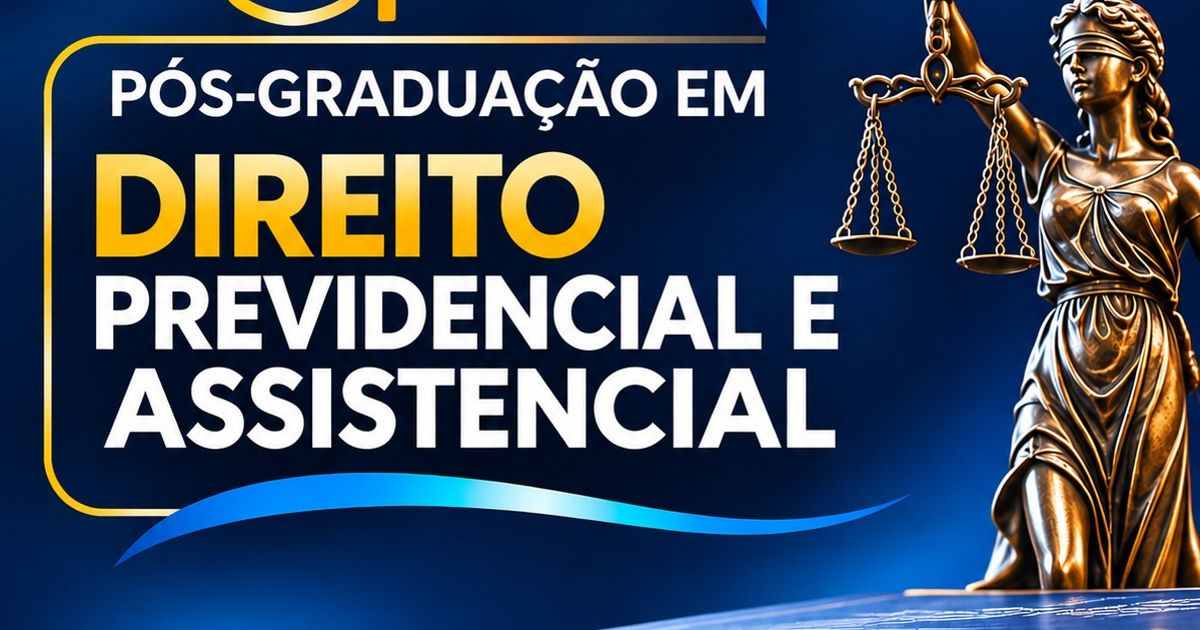
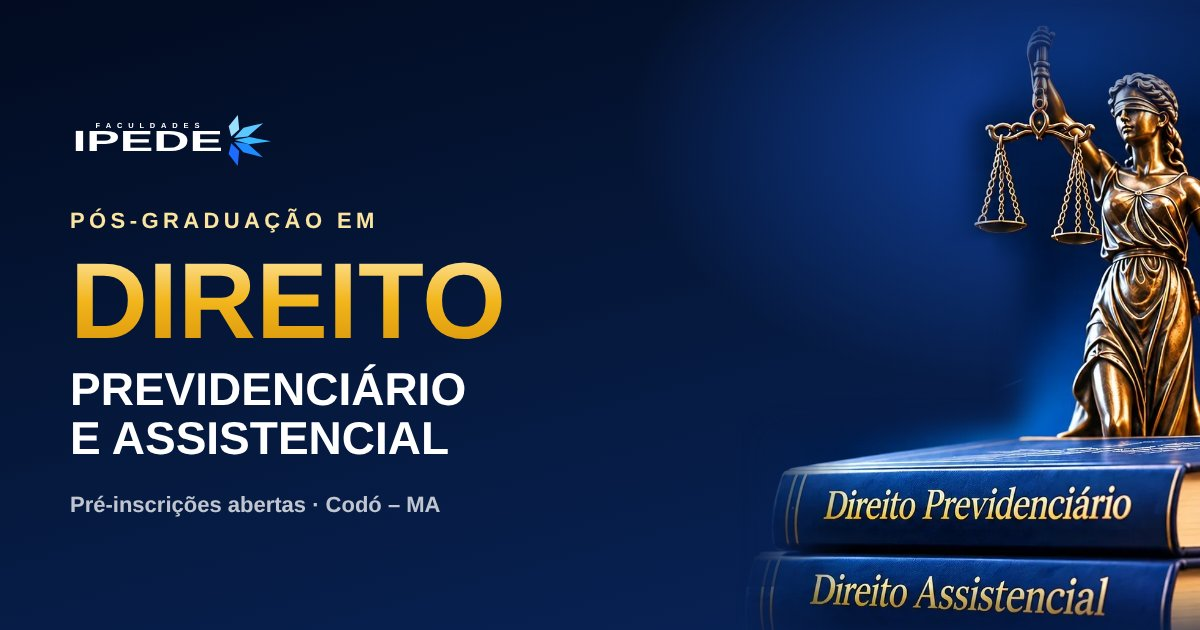
Pós: recortes limpos da arte, hero cinematográfico, faixa de destaques, seção Sobre reestruturada, nova imagem de compartilhamento
Claude-Session: https://claude.ai/code/session_01M2wvGq5piwREC14pVFZBn2

diff --git a/pos/index.html b/pos/index.html
@@ -68,7 +68,8 @@
   .topo .btn{padding:12px 20px;font-size:13px}
 
   /* ===== HERO ===== */
-  .hero{position:relative;overflow:hidden;color:#fff;min-height:100vh;min-height:100svh;display:flex;align-items:center;background:linear-gradient(170deg,var(--noite) 0%,var(--navy) 50%,#08245A 100%)}
+  section.hero{padding:0}
+  .hero{position:relative;overflow:hidden;color:#fff;min-height:clamp(720px,100svh,960px);display:flex;align-items:center;background:linear-gradient(170deg,var(--noite) 0%,var(--navy) 50%,#08245A 100%)}
   .aurora{position:absolute;border-radius:50%;filter:blur(110px);pointer-events:none;will-change:transform}
   .aurora.a1{width:720px;height:720px;right:-180px;top:-220px;background:radial-gradient(circle,rgba(30,107,255,.55),transparent 65%);animation:deriva1 26s ease-in-out infinite}
   .aurora.a2{width:560px;height:560px;left:-200px;bottom:-260px;background:radial-gradient(circle,rgba(56,182,255,.32),transparent 65%);animation:deriva2 32s ease-in-out infinite}
@@ -81,7 +82,7 @@
   .ondas{position:absolute;left:0;right:0;bottom:-2px;width:100%;height:auto;pointer-events:none}
   .ondas path{stroke-dasharray:2600;stroke-dashoffset:2600;animation:traca 3.2s var(--ease) .6s forwards}
   @keyframes traca{to{stroke-dashoffset:0}}
-  .hero .wrap{position:relative;z-index:2;display:grid;grid-template-columns:1.15fr .85fr;gap:72px;align-items:center;padding-top:118px;padding-bottom:110px;width:100%}
+  .hero .wrap{position:relative;z-index:2;padding-top:150px;padding-bottom:170px;width:100%}
 
   /* entrada do hero: texto surge por máscara */
   .linha-m{display:block;overflow:hidden;padding-bottom:.06em;margin-bottom:-.06em}
@@ -98,26 +99,26 @@
   .hero h1 .l2 .linha-m:first-child{margin-top:16px}
   .hero p.lead{font-size:clamp(16.5px,1.6vw,18.5px);color:rgba(255,255,255,.72);max-width:540px;margin:24px 0 34px;line-height:1.7}
   .hero .acoes{display:flex;flex-wrap:wrap;gap:14px}
-  .selos{display:flex;flex-wrap:wrap;gap:12px 30px;margin-top:38px;padding-top:24px;border-top:1px solid rgba(255,255,255,.1);font-size:13.5px;color:rgba(255,255,255,.7);max-width:560px}
-  .selos span{display:inline-flex;align-items:center;gap:10px}
 
-  .moldura{position:relative;justify-self:center;width:100%;max-width:440px;perspective:1400px}
-  .moldura .halo{position:absolute;inset:-14% -12%;background:radial-gradient(circle at 50% 45%,rgba(56,182,255,.42),transparent 62%);filter:blur(36px);z-index:-1}
-  .moldura .cartao{position:relative;border-radius:24px;padding:1px;transform-style:preserve-3d;will-change:transform;
-    background:linear-gradient(150deg,rgba(251,227,160,.9),rgba(242,181,28,.15) 28%,rgba(56,182,255,.3) 62%,rgba(251,227,160,.75));
-    box-shadow:0 60px 120px -50px rgba(0,0,0,.85),0 0 0 1px rgba(255,255,255,.04);
-    opacity:0;transform:translateY(40px) scale(.96) rotateX(6deg);transition:opacity 1.6s var(--ease) .35s,transform 1.6s var(--ease) .35s}
-  .pronto .moldura .cartao{opacity:1;transform:none}
-  .moldura .interno{position:relative;border-radius:23px;overflow:hidden;background:var(--navy)}
-  .moldura img{width:100%;height:auto}
-  .moldura .brilho{position:absolute;inset:0;pointer-events:none;background:linear-gradient(115deg,transparent 35%,rgba(255,255,255,.28) 48%,transparent 60%);transform:translateX(-120%)}
-  .pronto .moldura .brilho{animation:varre 2.2s var(--ease) 1.6s forwards}
-  @keyframes varre{to{transform:translateX(120%)}}
-  .moldura .reflexo{position:absolute;inset:0;pointer-events:none;border-radius:23px;background:radial-gradient(600px circle at var(--rx,50%) var(--ry,0%),rgba(255,255,255,.12),transparent 40%);opacity:0;transition:opacity .5s}
-  .moldura:hover .reflexo{opacity:1}
+  .hero-visual{position:absolute;z-index:1;right:0;top:0;bottom:0;width:min(54vw,860px);pointer-events:none}
+  .hero-visual .luz{position:absolute;right:8%;top:14%;width:70%;height:60%;border-radius:50%;background:radial-gradient(circle,rgba(56,182,255,.35),transparent 65%);filter:blur(40px)}
+  .hero-visual picture{position:absolute;right:0;bottom:96px;height:calc(100% - 150px);max-height:960px;aspect-ratio:759/1080;
+    -webkit-mask-image:linear-gradient(90deg,transparent 0%,#000 22%);mask-image:linear-gradient(90deg,transparent 0%,#000 22%)}
+  .hero-visual img{width:100%;height:100%;object-fit:contain;object-position:right bottom;opacity:0;transform:scale(1.05) translateY(10px);transition:opacity 2s var(--ease) .3s,transform 2.4s var(--ease) .3s;will-change:transform}
+  .pronto .hero-visual img{opacity:1;transform:none}
+  .hero-texto{max-width:640px}
+
+  /* faixa de destaques */
+  .destaques{position:relative;z-index:5;margin-top:-64px}
+  .destaques .grade-d{display:grid;grid-template-columns:repeat(4,1fr);background:#fff;border-radius:24px;box-shadow:0 30px 70px -36px rgba(6,26,64,.5);border:1px solid var(--linha);overflow:hidden}
+  .destaques .item{display:flex;gap:16px;align-items:center;padding:28px 28px}
+  .destaques .item + .item{border-left:1px solid var(--linha)}
+  .destaques .ic{flex:none;width:46px;height:46px;border-radius:14px;display:grid;place-items:center;background:linear-gradient(150deg,var(--navy),var(--navy-3))}
+  .destaques small{display:block;font:600 10.5px/1.2 Montserrat,sans-serif;letter-spacing:.18em;text-transform:uppercase;color:var(--cinza);margin-bottom:5px}
+  .destaques b{display:block;font:700 15px/1.3 Montserrat,sans-serif;color:var(--navy)}
 
   /* ===== seções ===== */
-  section{padding:140px 0;position:relative}
+  section{padding:124px 0;position:relative}
   section[id]{scroll-margin-top:60px}
   .k{display:inline-flex;align-items:center;gap:12px;font:600 11.5px/1 Montserrat,sans-serif;letter-spacing:.26em;text-transform:uppercase;color:var(--azul)}
   .k:before{content:"";width:28px;height:1px;background:currentColor;opacity:.6}
@@ -136,17 +137,18 @@
   .d1{transition-delay:.1s}.d2{transition-delay:.2s}.d3{transition-delay:.3s}.d4{transition-delay:.4s}.d5{transition-delay:.5s}
 
   /* ===== sobre ===== */
-  #sobre{background:var(--creme)}
-  .sobre{display:grid;grid-template-columns:.9fr 1.1fr;gap:96px;align-items:center}
-  .visual{position:relative;max-width:440px;justify-self:center;width:100%}
-  .visual .foto{position:relative;border-radius:28px;overflow:hidden;aspect-ratio:349/700;box-shadow:var(--sombra);background:var(--navy)}
-  .visual .foto img{width:100%;height:100%;object-fit:cover;object-position:top;transform:scale(1.08);transition:transform 2.4s var(--ease)}
-  .visual.on .foto img{transform:scale(1)}
-  .visual .foto:after{content:"";position:absolute;inset:0;background:linear-gradient(180deg,transparent 55%,rgba(6,26,64,.92) 88%)}
-  .visual .contorno{position:absolute;inset:-18px 18px 18px -18px;border:1px solid rgba(217,150,10,.45);border-radius:32px;z-index:-1}
-  .visual .legenda{position:absolute;left:28px;right:28px;bottom:30px;color:#fff;z-index:2}
-  .visual .legenda blockquote{font-family:"Playfair Display",serif;font-style:italic;font-size:clamp(20px,2vw,24px);line-height:1.35}
-  .visual .legenda small{display:block;margin-top:14px;font:600 11px/1 Montserrat,sans-serif;letter-spacing:.22em;text-transform:uppercase;color:var(--ouro-cl)}
+  #sobre{background:#fff;padding-top:120px}
+  .sobre{display:grid;grid-template-columns:1fr 1fr;gap:88px;align-items:center}
+  .painel-sobre{position:relative;overflow:hidden;border-radius:30px;padding:52px 48px 46px;color:#fff;background:radial-gradient(520px 320px at 100% 0%,rgba(56,182,255,.28),transparent 60%),linear-gradient(155deg,var(--noite),var(--navy-2));box-shadow:var(--sombra)}
+  .painel-sobre:after{content:"";position:absolute;inset:0;border-radius:30px;padding:1px;pointer-events:none;background:linear-gradient(140deg,rgba(251,227,160,.55),transparent 35%,transparent 70%,rgba(56,182,255,.4));-webkit-mask:linear-gradient(#000 0 0) content-box,linear-gradient(#000 0 0);-webkit-mask-composite:xor;mask-composite:exclude}
+  .painel-sobre .aspas{position:absolute;right:30px;top:-10px;font:600 170px/1 "Playfair Display",serif;color:rgba(242,181,28,.18)}
+  .painel-sobre blockquote{position:relative;font-family:"Playfair Display",serif;font-style:italic;font-size:clamp(22px,2.3vw,29px);line-height:1.35;max-width:84%}
+  .painel-sobre .assin{display:flex;align-items:center;gap:12px;margin-top:20px;font:600 10.5px/1 Montserrat,sans-serif;letter-spacing:.24em;text-transform:uppercase;color:var(--ouro-cl)}
+  .painel-sobre .assin:before{content:"";width:30px;height:1px;background:var(--ouro)}
+  .painel-sobre .sep{height:1px;background:rgba(255,255,255,.1);margin:32px 0 26px}
+  .painel-sobre small{display:block;color:rgba(255,255,255,.66);font-size:14px;margin-bottom:18px}
+  .painel-sobre .lista-ouro{grid-template-columns:1fr;margin-top:0;gap:14px}
+  .painel-sobre .lista-ouro li{color:rgba(255,255,255,.92)}
   .sobre h2{font-size:clamp(32px,4vw,50px);color:var(--navy);font-weight:800;margin-top:20px}
   .sobre p{color:var(--cinza);font-size:17px;margin-top:20px}
   .lista-ouro{list-style:none;margin-top:34px;display:grid;grid-template-columns:1fr 1fr;gap:16px 26px}
@@ -296,10 +298,18 @@
 
   @media (max-width:1020px){
     nav.menu{display:none}
-    .hero .wrap{grid-template-columns:1fr;gap:64px;padding-top:130px;padding-bottom:120px}
-    .moldura{max-width:380px}
+    .hero{min-height:0;flex-direction:column;align-items:stretch}
+    .hero .wrap{order:1}
+    .hero-visual{order:2}
+    .hero .wrap{padding-top:130px;padding-bottom:0}
+    .hero-visual{position:relative;width:100%;height:520px;margin-top:-10px}
+    .hero-visual{margin-top:28px}
+    .hero-visual picture{right:0;bottom:56px;height:calc(100% - 56px)}
+    .hero-visual img{object-position:center bottom}
+    .destaques .grade-d{grid-template-columns:1fr 1fr}
+    .destaques .item:nth-child(3){border-left:0}
+    .destaques .item:nth-child(n+3){border-top:1px solid var(--linha)}
     .sobre,.grade-insc{grid-template-columns:1fr;gap:64px}
-    .visual{max-width:380px}
     .lado{position:static}
     .areas{grid-template-columns:1fr 1fr}
     .publico{grid-template-columns:1fr 1fr}
@@ -314,13 +324,17 @@
     header.topo .wrap{height:70px}
     .logo{height:32px}
     .topo .btn{padding:11px 16px;font-size:12.5px}
-    .hero .wrap{padding-top:116px;padding-bottom:100px}
+    .hero .wrap{padding-top:104px}
+    .hero-visual{height:470px;margin-top:8px}
+    .hero-visual picture{bottom:40px;height:calc(100% - 40px)}
+    .hero-visual .luz{right:0;width:90%}
+    .destaques{margin-top:-48px}
+    .destaques .item{flex-direction:column;align-items:flex-start;gap:12px;padding:20px 18px}
+    .destaques .ic{width:40px;height:40px;border-radius:12px}
+    .destaques b{font-size:14px}
+    .painel-sobre{padding:40px 24px 34px;border-radius:24px}
     .hero h1{font-size:clamp(42px,12vw,58px)}
     .hero .acoes .btn{width:100%}
-    .selos{flex-direction:column;gap:12px}
-    .moldura{max-width:320px}
-    .visual{max-width:320px}
-    .visual .contorno{inset:-12px 12px 12px -12px}
     .lista-ouro{grid-template-columns:1fr}
     .areas,.publico,.difs{grid-template-columns:1fr}
     .area{padding:36px 28px}
@@ -337,7 +351,7 @@
   }
   @media (prefers-reduced-motion:reduce){
     *,*:before,*:after{animation-duration:.001ms!important;animation-iteration-count:1!important;transition-duration:.001ms!important;transition-delay:0s!important;scroll-behavior:auto!important}
-    .rv,.fade-h,.moldura .cartao{opacity:1;transform:none;filter:none}
+    .rv,.fade-h,.hero-visual img{opacity:1;transform:none;filter:none}
     .linha-m > span{transform:none}
     .ondas path{stroke-dashoffset:0}
   }
@@ -379,8 +393,12 @@
       <path d="M0,170 C260,90 520,210 820,150 C1080,98 1260,120 1440,60" fill="none" stroke="url(#gOnda1)" stroke-width="2"/>
       <path d="M0,200 C300,140 560,230 860,180 C1120,138 1300,160 1440,110" fill="none" stroke="url(#gOnda2)" stroke-width="1.2"/>
     </svg>
+    <div class="hero-visual" aria-hidden="true">
+      <span class="luz"></span>
+      <picture><img id="imgHero" src="heroi.webp" width="759" height="1080" alt="" fetchpriority="high"></picture>
+    </div>
     <div class="wrap">
-      <div>
+      <div class="hero-texto">
         <span class="eyebrow fade-h" style="transition-delay:.1s"><i></i>Inscrições abertas · Codó/MA</span>
         <p class="pre"><span class="linha-m"><span style="transition-delay:.2s">Pós-graduação em</span></span></p>
         <h1>
@@ -395,42 +413,37 @@
           <a class="btn btn-ouro" href="#inscricao">Quero me inscrever <span class="seta"><svg width="14" height="14" viewBox="0 0 24 24" fill="none" stroke="currentColor" stroke-width="2.6" stroke-linecap="round" stroke-linejoin="round"><path d="M5 12h14M13 6l6 6-6 6"/></svg></span></a>
           <a class="btn btn-linha" href="#sobre">Conhecer a pós</a>
         </div>
-        <div class="selos fade-h" style="transition-delay:1.1s">
-          <span><svg width="17" height="17" viewBox="0 0 24 24" fill="none" stroke="#F2B51C" stroke-width="1.8" stroke-linecap="round" stroke-linejoin="round"><path d="M12 22s8-4 8-10V5l-8-3-8 3v7c0 6 8 10 8 10z"/><path d="M9 12l2 2 4-4"/></svg>Instituição credenciada pelo MEC</span>
-          <span><svg width="17" height="17" viewBox="0 0 24 24" fill="none" stroke="#F2B51C" stroke-width="1.8" stroke-linecap="round" stroke-linejoin="round"><circle cx="12" cy="12" r="9"/><path d="M12 7v5l3 2"/></svg>Pré-inscrição em 2 minutos</span>
-        </div>
-      </div>
-      <div class="moldura" id="moldura">
-        <span class="halo"></span>
-        <div class="cartao" id="cartaoArte">
-          <div class="interno">
-            <picture><source srcset="arte.webp" type="image/webp"><img src="arte.jpg" width="900" height="985" alt="Arte da Pós-graduação em Direito Previdenciário e Assistencial das Faculdades IPEDE" fetchpriority="high"></picture>
-            <span class="brilho"></span><span class="reflexo"></span>
-          </div>
-        </div>
       </div>
     </div>
   </section>
 
+  <div class="destaques">
+    <div class="wrap">
+      <div class="grade-d rv">
+        <div class="item"><span class="ic"><svg width="22" height="22" viewBox="0 0 24 24" fill="none" stroke="#F2B51C" stroke-width="1.7" stroke-linecap="round" stroke-linejoin="round"><path d="M22 10L12 5 2 10l10 5 10-5z"/><path d="M6 12v5c3 2 9 2 12 0v-5"/></svg></span><div><small>Curso</small><b>Pós-graduação</b></div></div>
+        <div class="item"><span class="ic"><svg width="22" height="22" viewBox="0 0 24 24" fill="none" stroke="#F2B51C" stroke-width="1.7" stroke-linecap="round" stroke-linejoin="round"><path d="M12 22s8-4 8-10V5l-8-3-8 3v7c0 6 8 10 8 10z"/><path d="M9 12l2 2 4-4"/></svg></span><div><small>Instituição</small><b>Credenciada pelo MEC</b></div></div>
+        <div class="item"><span class="ic"><svg width="22" height="22" viewBox="0 0 24 24" fill="none" stroke="#F2B51C" stroke-width="1.7" stroke-linecap="round" stroke-linejoin="round"><path d="M21 10c0 7-9 13-9 13S3 17 3 10a9 9 0 0118 0z"/><circle cx="12" cy="10" r="3"/></svg></span><div><small>Local</small><b>Codó – MA</b></div></div>
+        <div class="item"><span class="ic"><svg width="22" height="22" viewBox="0 0 24 24" fill="none" stroke="#F2B51C" stroke-width="1.7" stroke-linecap="round" stroke-linejoin="round"><circle cx="12" cy="12" r="9"/><path d="M12 7v5l3 2"/></svg></span><div><small>Pré-inscrição</small><b>Gratuita e online</b></div></div>
+      </div>
+    </div>
+  </div>
+
   <!-- SOBRE -->
   <section id="sobre">
     <div class="wrap sobre">
-      <div class="visual rv" id="visual">
-        <span class="contorno"></span>
-        <div class="foto">
-          <picture><source srcset="estatua.webp" type="image/webp"><img src="estatua.jpg" width="349" height="820" alt="Estátua da Justiça sobre livros de Direito Previdenciário" loading="lazy"></picture>
-        </div>
-        <div class="legenda">
-          <blockquote>“Conhecer a Previdência é garantir direitos a quem mais precisa deles.”</blockquote>
-          <small>Faculdades IPEDE</small>
-        </div>
-      </div>
       <div>
         <span class="k rv">A pós-graduação</span>
         <h2 class="rv d1">Uma especialização que <span class="it" style="color:var(--navy-3)">transforma</span> a sua atuação</h2>
         <p class="rv d2">O Direito Previdenciário e Assistencial está no centro da vida de milhões de brasileiros: aposentadorias, pensões, auxílios e benefícios assistenciais movimentam diariamente o INSS e a Justiça Federal.</p>
         <p class="rv d3">A pós das Faculdades IPEDE prepara você para atuar com segurança técnica nessa área, do requerimento administrativo ao processo judicial, com visão prática da realidade da nossa região.</p>
-        <ul class="lista-ouro rv d4">
+      </div>
+      <div class="painel-sobre rv d2">
+        <span class="aspas">&ldquo;</span>
+        <blockquote>Conhecer a Previdência é garantir direitos a quem mais precisa deles.</blockquote>
+        <div class="assin">Faculdades IPEDE</div>
+        <div class="sep"></div>
+        <small>Ao longo da especialização, você desenvolve:</small>
+        <ul class="lista-ouro">
           <li>Leitura estratégica de casos previdenciários</li>
           <li>Segurança no processo administrativo do INSS</li>
           <li>Atuação no processo judicial previdenciário</li>
@@ -676,20 +689,22 @@
 
   /* arte do hero: inclinação suave seguindo o cursor */
   if (finoPonteiro && !reduzido) {
-    var mold = $('moldura'), cart = $('cartaoArte'), ref = mold.querySelector('.reflexo');
-    mold.addEventListener('mousemove', function (e) {
-      var r = mold.getBoundingClientRect(), x = (e.clientX - r.left) / r.width, y = (e.clientY - r.top) / r.height;
-      cart.style.transition = 'transform .6s cubic-bezier(.16,1,.3,1)';
-      cart.style.transform = 'rotateY(' + ((x - .5) * 8) + 'deg) rotateX(' + ((.5 - y) * 6) + 'deg)';
-      ref.style.setProperty('--rx', x * 100 + '%'); ref.style.setProperty('--ry', y * 100 + '%');
-    });
-    mold.addEventListener('mouseleave', function () { cart.style.transition = 'transform 1.2s cubic-bezier(.16,1,.3,1)'; cart.style.transform = ''; });
     document.querySelectorAll('.area').forEach(function (c) {
       c.addEventListener('mousemove', function (e) {
         var r = c.getBoundingClientRect();
         c.style.setProperty('--mx', (e.clientX - r.left) + 'px'); c.style.setProperty('--my', (e.clientY - r.top) + 'px');
       });
     });
+  }
+
+  /* parallax suave da imagem do hero */
+  if (!reduzido && innerWidth > 1020) {
+    var imgH = $('imgHero'), pend = false;
+    setTimeout(function () { imgH.style.transition = 'opacity 2s'; }, 2900);
+    addEventListener('scroll', function () {
+      if (pend) return; pend = true;
+      requestAnimationFrame(function () { pend = false; var y = Math.min(scrollY, 900); if ($('hero').classList.contains('pronto')) imgH.style.transform = 'translateY(' + (y * .12) + 'px)'; });
+    }, { passive: true });
   }
 
   /* FAQ: uma aberta por vez */
